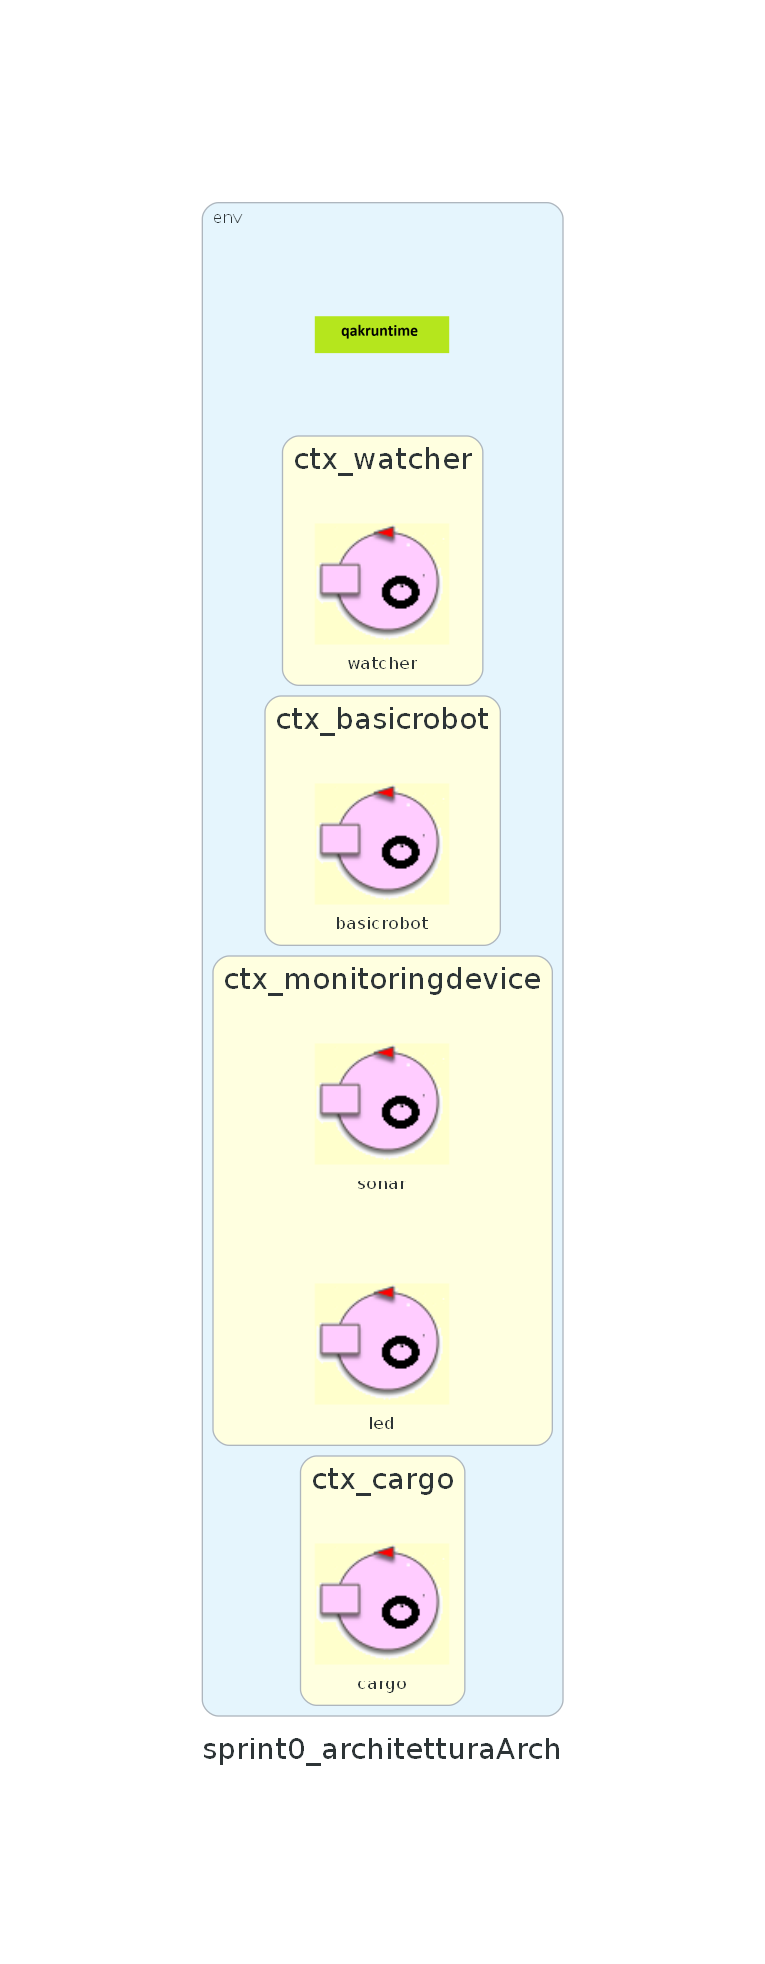
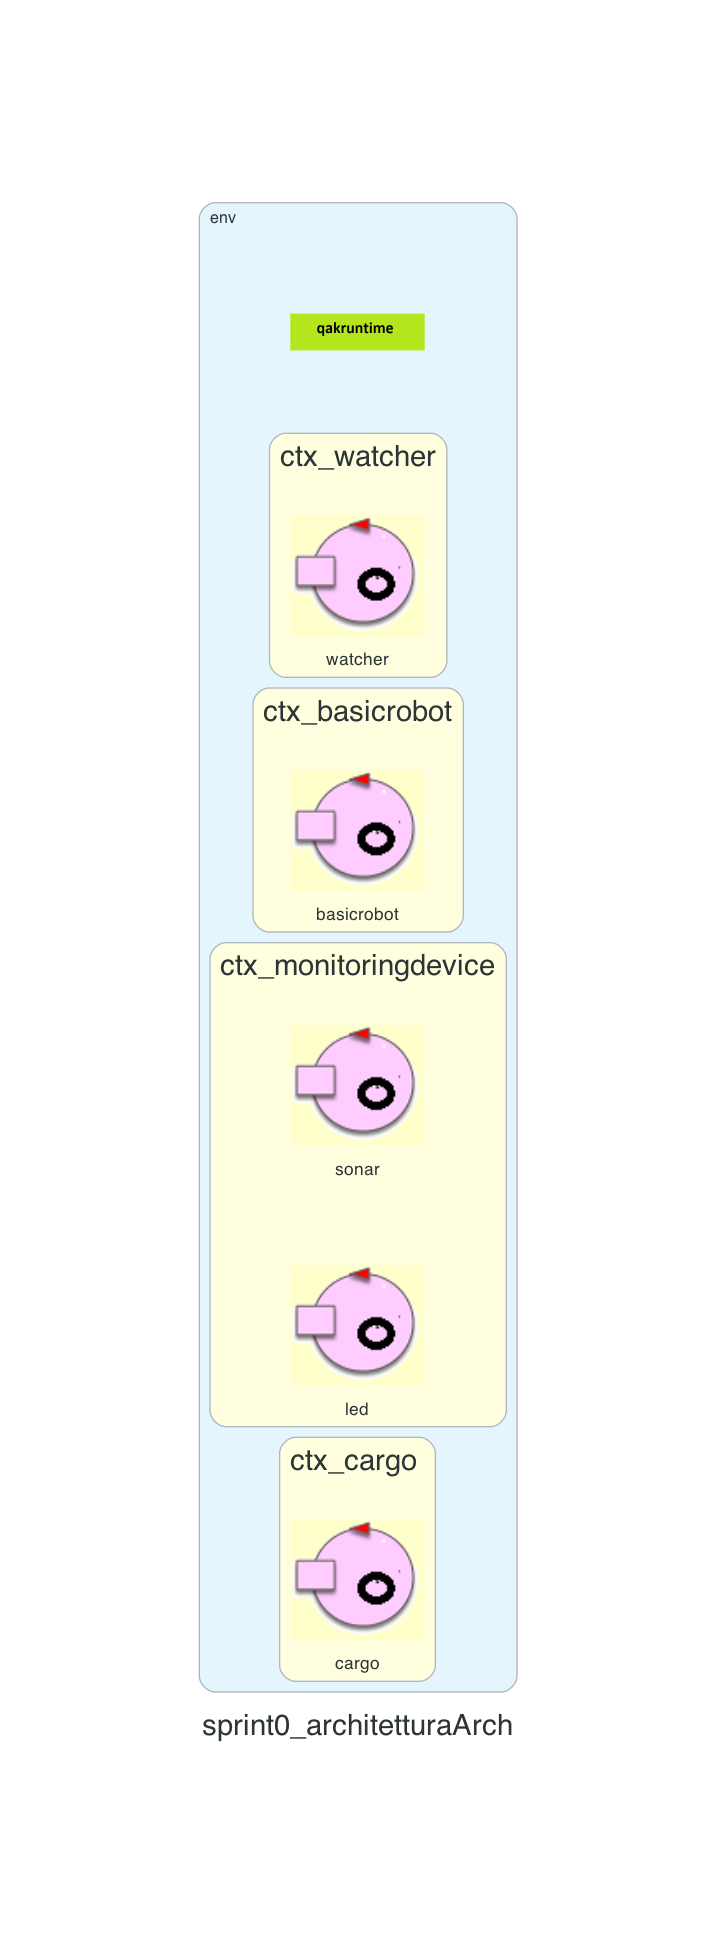
Updated Sprint0 with corrections

Changed region(s): [[0.2458, 0.093, 0.7374, 0.8992], [0.3994, 0.155, 0.6145, 0.186]]

diff --git a/Sprint0/userDocs/sprint0_v2.html b/Sprint0/userDocs/sprint0_v2.html
@@ -1,0 +1,205 @@
+<!DOCTYPE html PUBLIC "-//W3C//DTD HTML 4.01//EN" "http://www.w3.org/TR/html4/strict.dtd">
+<html lang="it">
+  <head>
+    <!-- <script type="text/javascript" src="../css/issStyle.js"></script> -->
+    <meta name="viewport" content="width=device-width, initial-scale=1" />
+    <meta charset="UTF-8" />
+    <link
+      rel="stylesheet"
+      href="https://cdn.jsdelivr.net/npm/foundation-sites@6.7.4/dist/css/foundation.min.css"
+      crossorigin="anonymous"
+    />
+    <script
+      src="https://cdn.jsdelivr.net/npm/foundation-sites@6.7.4/dist/js/foundation.min.js"
+      crossorigin="anonymous"
+    ></script>
+    <link rel="stylesheet" type="text/css" href="../../resources/_styles/style.css" />
+
+    <title>ISS25 - Sprint 0</title>
+  </head>
+
+  <body>
+    <div id="top">
+      <h1>LABORATORIO DI INGEGNERIA DEI SISTEMI SOFTWARE - Sprint 0</h1>
+    </div>
+    <div class="body">
+      <h2>Introduction</h2>
+      <div class="remark">
+        <div class="textbody">
+          Lo scopo del team è quello realizzare un sistema software sulla base
+          dei requisiti forniti dal cliente e presentanti nel
+          <a href="../../resources/TemaFinale25.html"> tema finale 2025</a>.
+          <br/>
+          L'obiettivo dello Sprint 0 è di analizzare i requisiti forniti dal
+          cliente, comprenderli pienamente e costruire un modello di riferimento
+          del sistema che illustri i macro-componenti in gioco.
+        </div>
+      </div>
+
+      <h2>Requirements</h2>
+
+      <div class="remark">
+        <a
+          href="../../resources/TemaFinale25.html"
+          class="button primary"
+          target="_blank"
+        >
+          Client requirements
+        </a>
+      </div>
+
+      <h2>Requirement analysis</h2>
+
+      <div class="remark">
+        A partire dai requisiti forniti dal cliente, si possono formalizzare diversi concetti:
+
+        <div class="textparagraph">
+            <h3>cargoservice</h3>
+            <div class="textbody">
+                Sistema software che si occupa della gestione della nave cargo.
+                È in grado di ricevere richieste di caricamento di prodotti tramite l'invio di un messaggio contenente il PID del prodotto da caricare e si occupa di coordinare tutte
+                le operazioni all'interno del sistema, tra cui l'interfacciamento con la GUI. <br/>
+                Ad oggi non è possibile definire le caratteristiche della GUI non essendo specificati abbastanza requisiti. <br/>
+                Alla richiesta di caricamento di un prodotto, il cargoservice potrà rispondere con un messaggio di conferma, nel quale viene confermata la possibilità di caricamento, o con un messaggio che specifica le motivazioni per cui il caricamento non può essere effettuato che possono essere:
+                <ul>
+                    <li> Prodotto non registrato nel database </li>
+                    <li> Peso totale della hold superiore ad un limite massimo (maxLoad)</li>
+                    <li> Hold piena, non ci sono slot liberi a cui caricare il prodotto </li>
+                </ul>
+            </div>
+        </div>
+
+        <div class="textparagraph">
+          <h3>productservice</h3>
+          <div class="textbody">
+            Servizio fornito dal committente che verrà integrato all'interno del sistema e si occupa della gestione del database di prodotti.
+            È costituito da un'entità attiva con la quale è possibile comunicare tramite l'invio di messaggi, in particolare per richiedere informazioni sui prodotti è
+            possibile inviare un messaggio contenente il PID del prodotto di interesse e si riceverà in risposta un messaggio contenente le informazioni richieste, se il prodotto è registrato, 
+            o un messaggio di errore in caso contrario.
+
+          </div>
+        </div>
+
+        <div class="textparagraph">
+          <h3>sensors</h3>
+          <div class="textbody">
+            Componente formato da un RaspBerryPy munito di led e sonar forniti
+            dal cliente. Ad oggi non sono stati ancora definite ulteriori specifiche
+          </div>
+        </div>
+
+        <div class="textparagraph">
+          <h3>cargorobot</h3>
+          <div class="textbody">
+            Il cargorobot è un componente incaricato di controllare un Differential Drive Robot fornito dal committente chiamato basicrobot, la cui documentazione è visibile al seguente
+            <a href="../../resources/BasicRobot24.html">link</a>.
+            Essendo il basicrobot controllabile tramite l'invio di messaggi il cargorobot non potrà essere espresso come un semplice POJO ma sarà necessario modellarlo come componente attivo.
+            L'attivazione del cargorobt dovrà avvenire tramite l'invio di messaggi provenienti dal cargoservice.
+          </div>
+        </div>
+
+        <div class="textparagraph">
+          <h3>hold</h3>
+          <div class="textbody">
+            La hold rappresenta l'ambiente in cui il robot si muove. È formata
+            da una stanza rettangolare nella quale sono presenti 5 slot di
+            carico e una porta di I/O da cui entrano i container. Il robot
+            quando fermo si trova nella posizione HOME, posta nell'angolo in
+            alto a sinistra della mappa e occupa una porzione di spazio pari
+            alle sue dimensioni. <br/>
+            Questa mappa può dunque essere rappresentata come una griglia bidimensionale 
+            dove ogni punto ha coordinate discrete misurate in termini di dimensioni del robot. 
+            La dimensione del robot sarà l'unità di misura principale per gli spostamenti. <br />
+            Le informazioni riguardanti le locazioni fisiche del sistema sono già presenti all'interno 
+            del robot e pertanto non sono modificabili.
+            <div class="medium-12 text-center margin-5">
+              <img src="./resources/map.png" class="" alt="map" width="25%" />
+            </div>
+          </div>
+        </div>
+      </div>
+
+      <h2>Model</h2>
+      <div class="remark">
+        Poichè si è osservato che il sistema richiesto dal cliente è un sistema costituito da un insieme di componenti attivi che comunicano tra loro tramite scambio di messaggi,
+        questo risulta essere distante dalle tecnologie implementative tradizionali. 
+        Per costruire un modello infatti è necessario utilizzare un linguaggio formale per la rappresentazione di sistemi distribuiti, in quanto strumenti tradizionali come ad esempio UML, 
+        presentano un abstraction gap no trascurabile, non permettendo di rappresentare la comunicazione tra i componenti.
+        Per questo motivo è stato deciso di utilizzare il linguaggio QAK, un Domain Specific Language che permette di modellare sistemi distribuiti basati su componenti attivi, chiamati attori, che interagiscono tramite scambio di messaggi. 
+        QAK costituisce un linguaggio formale, ed è per questo comprensibile anche alla macchina, e per questo risulta essere un valido strumento per la velocizzazione dello sviluppo e della prototipazione del sistema. 
+      </div>
+
+      <h2>Logical Model</h2>
+      <div class="medium-12 text-center remark">
+        <img
+          src="../sprint0_system_overviewarch.png"
+          class="text-center"
+          alt="map"
+          width="25%"
+        />
+      </div>
+
+      <h2>Test plans</h2>
+      <div class="remark">
+        <div class="textbody">
+          Lo scopo della fase di test è quello di testare il funzionamento del
+          core business, cioè del componente <strong> cargoservice </strong>. Per farlo si è deciso di procedere
+          inizialmente con un approccio Unit Test per poi proseguire con
+          l'Integration Test al termine dei primi. <br />
+          <ul>
+            <li>
+              Un attore esterno avrà lo scopo di comunicare con il cargoservice inviandogli una richiesta di carico e ne verificherà l'esito
+            </li>
+          </ul>
+        </div>
+      </div>
+
+      <h2>Work plans</h2>
+      <div class="remark">
+        <div class="textbody">
+          Il progetto verrà sviluppato in 3 sprint, secondo un ordine di
+          priorità delle funzionalità:
+          <ol>
+            <li>
+              Sprint 1 - Core Business : si svilupperà un modello che realizzi le funzionalità principali del sistema, tra cui il movimento del basicrobot. Tempo di sviluppo stimato 50 ore uomo.
+            </li>
+            <li>Sprint 2 - Sensor :  si realizzerà la parte del sistema che si occupa della gestione di led e sonar. Tempo di sviluppo stimato 40 ore uomo. </li>
+            <li>Sprint 3 - GUI : si realizzerà l'interfaccia grafica che permetterà di visualizzare lo stato del sistema. Tempo di sviluppo stimato 20 ore uomo. </li>
+          </ol>
+      </div>
+
+      <footer class="footer">
+        <div class="grid-container fluid">
+          <div class="grid-x grid-margin-x align-middle">
+            <div class="small-12 medium-3 text-center">
+              <a class="button change disabled"> &larr; Previous Sprint </a>
+            </div>
+
+            <div class="small-12 medium-4 text-center">
+              Fasano Andrea : andrea.fasano3@studio.unibo.it <br />
+              <!-- 0001189592 -->
+              Florian Alberto : alberto.florian@studio.unibo.it <br />
+              <!-- 0001189572 -->
+              Sampaoli Giacomo : giacomo.sampaoli@studio.unibo.it
+              <!-- 0001176431 -->
+            </div>
+
+            <div class="small-12 medium-2 align-middle text-center">
+              <a
+                href="https://github.com/FlorAber/ISS25-cargoservice"
+                class="button primary"
+                target="_blank"
+              >
+                GitHub Repository
+              </a>
+            </div>
+
+            <div class="small-12 medium-3 text-right">
+              <a class="button change" href="../../Sprint1/userDocs/sprint1_v0.html"> Next Sprint &rarr; </a>
+            </div>
+          </div>
+        </div>
+      </footer>
+    </div>
+  </body>
+</html>

diff --git a/Sprint0/src/it/unibo/cargoservice/Cargoservice.kt b/Sprint0/src/it/unibo/cargoservice/Cargoservice.kt
@@ -1,5 +1,5 @@
 /* Generated by AN DISI Unibo */ 
-package it.unibo.cargo
+package it.unibo.cargoservice
 
 import it.unibo.kactor.*
 import alice.tuprolog.*
@@ -20,7 +20,7 @@ import org.json.simple.JSONObject
 
 //User imports JAN2024
 
-class Cargo ( name: String, scope: CoroutineScope, isconfined: Boolean=false, isdynamic: Boolean=false ) : 
+class Cargoservice ( name: String, scope: CoroutineScope, isconfined: Boolean=false, isdynamic: Boolean=false ) : 
           ActorBasicFsm( name, scope, confined=isconfined, dynamically=isdynamic ){
 
 	override fun getInitialState() : String{
@@ -34,16 +34,6 @@ class Cargo ( name: String, scope: CoroutineScope, isconfined: Boolean=false, is
 					action { //it:State
 						delay(500) 
 						CommUtils.outgreen("$name STARTS")
-						//genTimer( actor, state )
-					}
-					//After Lenzi Aug2002
-					sysaction { //it:State
-					}	 	 
-					 transition( edgeName="goto",targetState="idle", cond=doswitch() )
-				}	 
-				state("idle") { //this:State
-					action { //it:State
-						CommUtils.outblack("$name IDLE...")
 						//genTimer( actor, state )
 					}
 					//After Lenzi Aug2002

diff --git a/Sprint0/src/it/unibo/mockactor/Mockactor.kt b/Sprint0/src/it/unibo/mockactor/Mockactor.kt
@@ -34,16 +34,7 @@ class Mockactor ( name: String, scope: CoroutineScope, isconfined: Boolean=false
 					action { //it:State
 						delay(500) 
 						CommUtils.outgreen("$name STARTS")
-						//genTimer( actor, state )
-					}
-					//After Lenzi Aug2002
-					sysaction { //it:State
-					}	 	 
-					 transition( edgeName="goto",targetState="load", cond=doswitch() )
-				}	 
-				state("load") { //this:State
-					action { //it:State
-						request("loadrequest", ""Val"" ,"cargomanager" )  
+						request("loadrequest", ""Val"" ,"cargoservice" )  
 						//genTimer( actor, state )
 					}
 					//After Lenzi Aug2002

diff --git a/Sprint0/src/it/unibo/basicrobot/Basicrobot.kt b/Sprint0/src/it/unibo/basicrobot/Basicrobot.kt
@@ -1,5 +1,5 @@
 /* Generated by AN DISI Unibo */ 
-package it.unibo.cargomanager
+package it.unibo.basicrobot
 
 import it.unibo.kactor.*
 import alice.tuprolog.*
@@ -20,7 +20,7 @@ import org.json.simple.JSONObject
 
 //User imports JAN2024
 
-class Cargomanager ( name: String, scope: CoroutineScope, isconfined: Boolean=false, isdynamic: Boolean=false ) : 
+class Basicrobot ( name: String, scope: CoroutineScope, isconfined: Boolean=false, isdynamic: Boolean=false ) : 
           ActorBasicFsm( name, scope, confined=isconfined, dynamically=isdynamic ){
 
 	override fun getInitialState() : String{

diff --git a/Sprint0/src/it/unibo/cargorobot/Cargorobot.kt b/Sprint0/src/it/unibo/cargorobot/Cargorobot.kt
@@ -39,16 +39,6 @@ class Cargorobot ( name: String, scope: CoroutineScope, isconfined: Boolean=fals
 					//After Lenzi Aug2002
 					sysaction { //it:State
 					}	 	 
-					 transition( edgeName="goto",targetState="idle", cond=doswitch() )
-				}	 
-				state("idle") { //this:State
-					action { //it:State
-						CommUtils.outblack("$name IDLE...")
-						//genTimer( actor, state )
-					}
-					//After Lenzi Aug2002
-					sysaction { //it:State
-					}	 	 
 				}	 
 			}
 		}

diff --git a/Sprint0/src/it/unibo/led/Led.kt b/Sprint0/src/it/unibo/led/Led.kt
@@ -39,16 +39,6 @@ class Led ( name: String, scope: CoroutineScope, isconfined: Boolean=false, isdy
 					//After Lenzi Aug2002
 					sysaction { //it:State
 					}	 	 
-					 transition( edgeName="goto",targetState="idle", cond=doswitch() )
-				}	 
-				state("idle") { //this:State
-					action { //it:State
-						CommUtils.outblack("$name IDLE...")
-						//genTimer( actor, state )
-					}
-					//After Lenzi Aug2002
-					sysaction { //it:State
-					}	 	 
 				}	 
 			}
 		}

diff --git a/Sprint0/src/it/unibo/productservice/Productservice.kt b/Sprint0/src/it/unibo/productservice/Productservice.kt
@@ -39,16 +39,6 @@ class Productservice ( name: String, scope: CoroutineScope, isconfined: Boolean=
 					//After Lenzi Aug2002
 					sysaction { //it:State
 					}	 	 
-					 transition( edgeName="goto",targetState="idle", cond=doswitch() )
-				}	 
-				state("idle") { //this:State
-					action { //it:State
-						CommUtils.outblack("$name IDLE...")
-						//genTimer( actor, state )
-					}
-					//After Lenzi Aug2002
-					sysaction { //it:State
-					}	 	 
 				}	 
 			}
 		}

diff --git a/Sprint0/src/it/unibo/sonar/Sonar.kt b/Sprint0/src/it/unibo/sonar/Sonar.kt
@@ -39,16 +39,6 @@ class Sonar ( name: String, scope: CoroutineScope, isconfined: Boolean=false, is
 					//After Lenzi Aug2002
 					sysaction { //it:State
 					}	 	 
-					 transition( edgeName="goto",targetState="idle", cond=doswitch() )
-				}	 
-				state("idle") { //this:State
-					action { //it:State
-						CommUtils.outblack("$name IDLE...")
-						//genTimer( actor, state )
-					}
-					//After Lenzi Aug2002
-					sysaction { //it:State
-					}	 	 
 				}	 
 			}
 		}

diff --git a/Sprint0/Arch_sprint0_system_overview.py b/Sprint0/Arch_sprint0_system_overview.py
@@ -26,14 +26,21 @@ with Diagram('sprint0_system_overviewArch', show=False, outformat='png', graph_a
      sys = Custom('','./qakicons/system.png')
 ### see https://renenyffenegger.ch/notes/tools/Graphviz/attributes/label/HTML-like/index
      with Cluster('ctx_cargo', graph_attr=nodeattr):
-          cargomanager=Custom('cargomanager','./qakicons/symActorWithobjSmall.png')
-          productservice=Custom('productservice','./qakicons/symActorWithobjSmall.png')
+          cargoservice=Custom('cargoservice','./qakicons/symActorWithobjSmall.png')
+          cargorobot=Custom('cargorobot','./qakicons/symActorWithobjSmall.png')
      with Cluster('ctx_sensor', graph_attr=nodeattr):
           led=Custom('led','./qakicons/symActorWithobjSmall.png')
           sonar=Custom('sonar','./qakicons/symActorWithobjSmall.png')
-     with Cluster('ctx_cargorobot', graph_attr=nodeattr):
+     with Cluster('ctx_test', graph_attr=nodeattr):
+          mockactor=Custom('mockactor','./qakicons/symActorWithobjSmall.png')
+     with Cluster('ctx_cargo', graph_attr=nodeattr):
+          cargoservice=Custom('cargoservice','./qakicons/symActorWithobjSmall.png')
           cargorobot=Custom('cargorobot','./qakicons/symActorWithobjSmall.png')
      with Cluster('ctx_test', graph_attr=nodeattr):
           mockactor=Custom('mockactor','./qakicons/symActorWithobjSmall.png')
-     mockactor >> Edge(color='magenta', style='solid', decorate='true', label='<loadrequest &nbsp; >',  fontcolor='magenta') >> cargomanager
+     with Cluster('ctx_basicrobot', graph_attr=nodeattr):
+          basicrobot=Custom('basicrobot','./qakicons/symActorWithobjSmall.png')
+     with Cluster('ctx_productservice', graph_attr=nodeattr):
+          productservice=Custom('productservice','./qakicons/symActorWithobjSmall.png')
+     mockactor >> Edge(color='magenta', style='solid', decorate='true', label='<loadrequest &nbsp; >',  fontcolor='magenta') >> cargoservice
 diag
